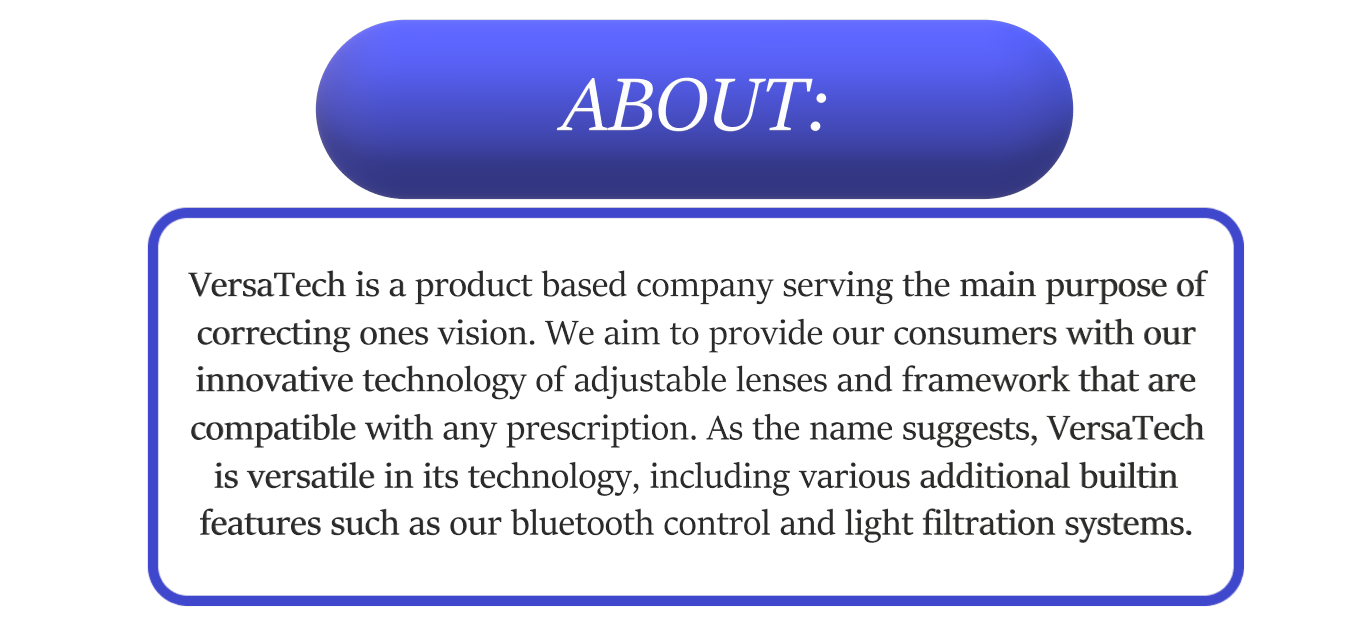
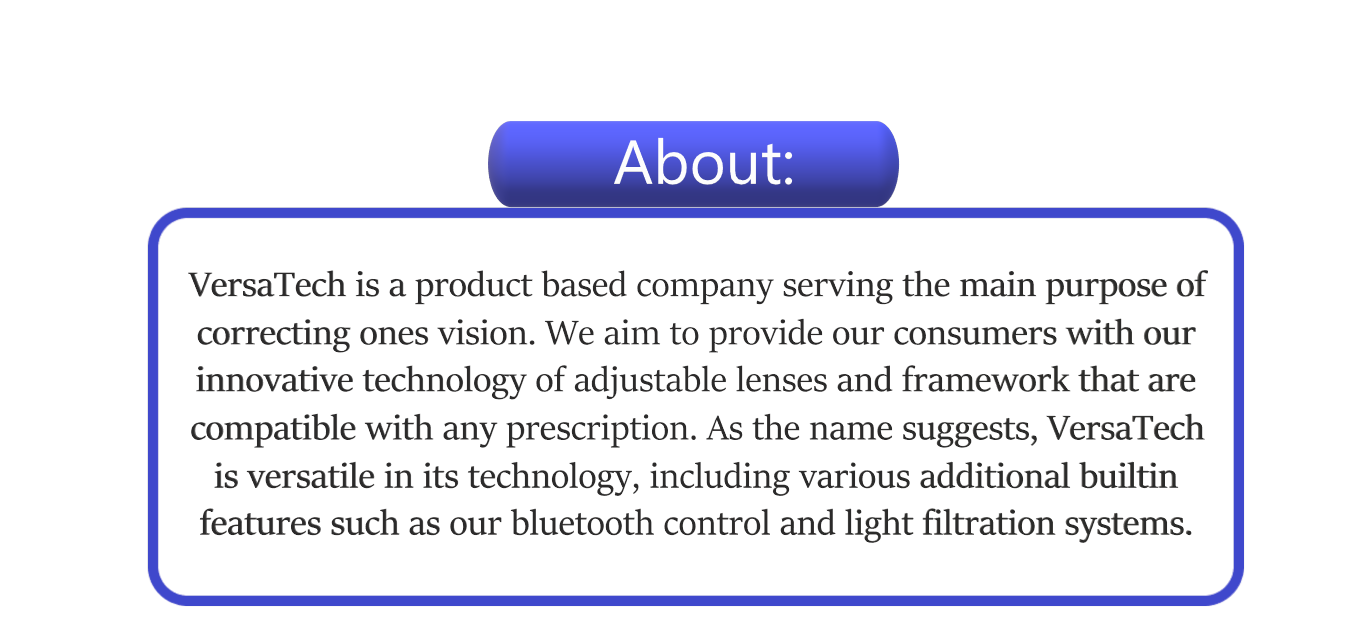
updates

Changed region(s): [[0.2178, 0.0302, 0.8089, 0.3323]]

diff --git a/index.html b/index.html
@@ -20,7 +20,7 @@
   
   
   <img src=pics//vision.png style="position: absolute;
-  top:200%;
+  top:210%;
   width: 100%;
   
   ">
@@ -29,33 +29,27 @@
   top:20%;
   left:15%;
   width:70%;
-  height:10%;
+  height:20%;
   ">
   <img src="pics//FV.png" alt="description" style="
   position: absolute;
-  top: 80%;
+  top: 90%;
   left:25%;
   width:50%;
   height:10%;
   ">
   <img src="pics//rating.png" style ="position:absolute;
   width: 60%;
-  top:90%;
+  top:100%;
   left:19%;
   ">
 <img src = "pics//heading.png" style =
 "position:absolute;
   width: 60%;
-  top:300%;
+  top:310%;
   left:19%;
 ">
 
-<img src = "pics//shead.png" style =
-"position:absolute;
-  width: 60%;
-  top:350%;
-  left:19%;
-">
 
 
 
@@ -87,13 +81,13 @@
 
      
      <img src ="pics//about.png" style="position: absolute;
-     top:110%;
+     top:105%;
      left:-2%;
      width:100%;"> 
       <img src = "pics//steps.png" style ="
       width:100%;
       position: absolute;
-      top: 310%;
+      top: 320%;
       ">
     
      
